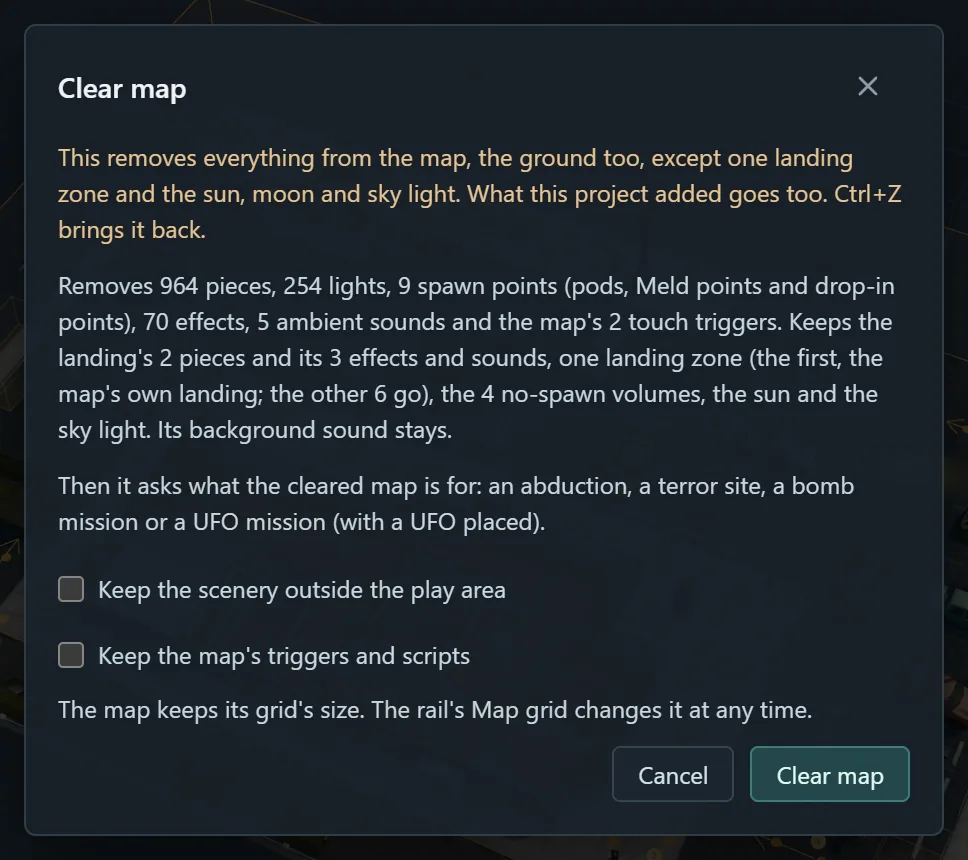
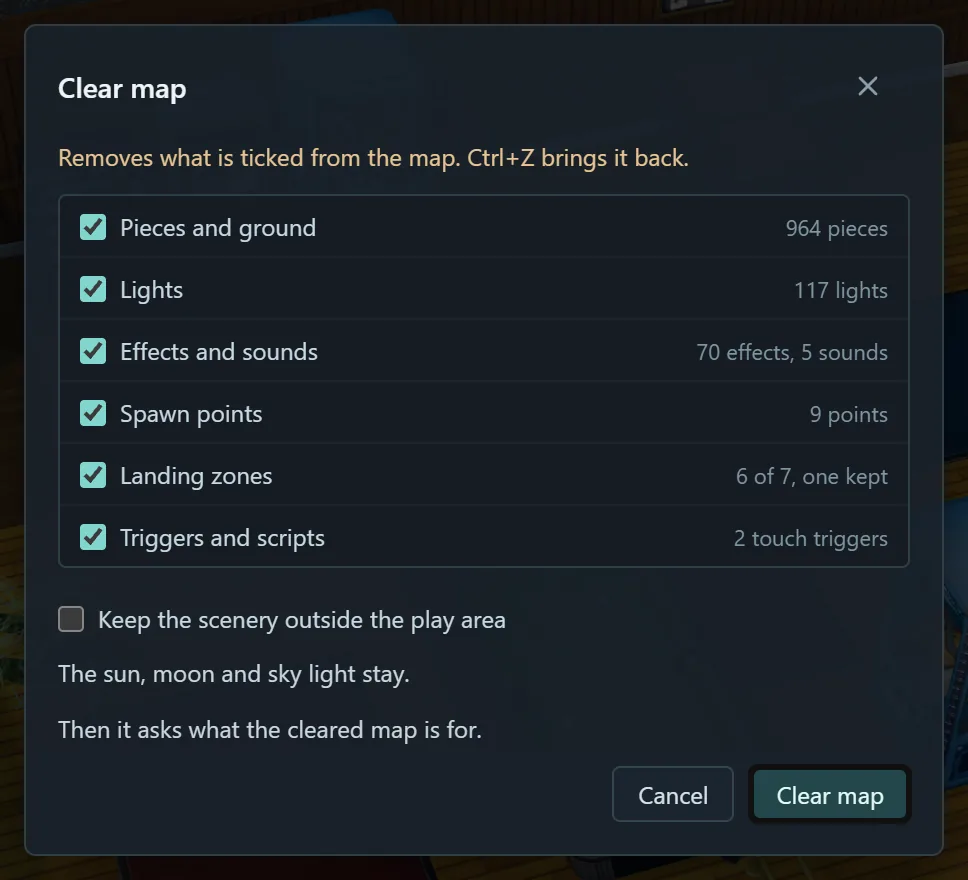
The guide's Clear map section describes the clear by parts: each part's tick, what it takes and what stays, a part already cleared, the notes, the outside kept per part, what follows the pieces; its picture taken again

diff --git a/tools/release/guide/guide.html b/tools/release/guide/guide.html
@@ -507,7 +507,8 @@ footer { margin-top: 70px; padding-top: 18px; border-top: 1px solid var(--line);
 <h3>Make a new map on an old map's light and landing</h3>
 <ol class="steps">
   <li>Open the map, click <b class="ui">Map</b> in the header and choose <b class="ui">Clear map…</b>.</li>
-  <li>Click <b class="ui">Clear map</b>. The ground grid shows the empty ground.</li>
+  <li>Every part is ticked: click <b class="ui">Clear map</b>. The ground grid shows the empty ground. (Untick a
+    part to keep it: the map's lights, say.)</li>
   <li>Turn on <b class="ui">Map grid</b> (the Map menu, or the tool strip's Views list) and drag the play area's
     handles to the size you want, in tiles and levels.</li>
   <li>Lay floors first (<kbd>P</kbd>, Kind: <b class="ui">Floors</b>, or the <a href="#made">Build menu</a>'s ground and
@@ -660,7 +661,7 @@ footer { margin-top: 70px; padding-top: 18px; border-top: 1px solid var(--line);
       <a href="#map-picture">More</a></li>
     <li data-n="5"><b>Map grid</b> shows the play area's handles, as the last row of the tool strip's Views list
       does. <a href="#mapgrid">More</a></li>
-    <li data-n="6"><b>Clear map…</b> takes every piece off the map. <a href="#clearmap">More</a></li>
+    <li data-n="6"><b>Clear map…</b> takes parts of the map off it, or all of them. <a href="#clearmap">More</a></li>
   </ol>
 </div>
 <p>Items 2 to 6 are the map's own. In the prefab builder, where there is only the map to change, the button opens the
@@ -2196,52 +2197,65 @@ footer { margin-top: 70px; padding-top: 18px; border-top: 1px solid var(--line);
 </ul>
 
 <h3 id="clearmap">Clear map and landing zones</h3>
-<p><b class="ui">Clear map…</b> in the <a href="#map-menu">Map menu</a> takes every piece off the map, the ground too, so that you can
-  build a new map with pieces and prefabs on an old map's light and landing. It is meant for an unchanged map, but it
-  works on any.</p>
-<figure><img src="shots/clear-map.webp" width="484" height="430" alt="The Clear map window on the Bar, with its counts and the ticks to keep the scenery outside the play area and the map's triggers"></figure>
+<p><b class="ui">Clear map…</b> in the <a href="#map-menu">Map menu</a> takes parts of the map off it, or all of them:
+  its pieces and the ground, its lights, its effects and sounds, its spawn points, its landing zones and its triggers.
+  Cleared whole, the map is the start of a new one built with pieces and prefabs on an old map's light and landing.
+  Cleared in part, it keeps what you want of the old map: its lights and sounds round pieces of your own, or its pieces
+  without its narration. It works on any map, at any point, a changed one too.</p>
+<figure><img src="shots/clear-map.webp" width="484" height="440" alt="The Clear map window on the Bar: a tick for each part with its count, and the tick to keep the scenery outside the play area"></figure>
 <ul>
-  <li><b>A window comes first.</b> It warns what will go and gives a short count of it for this map: the pieces,
-    the lights, the spawn points, the effects and the ambient sounds. What stays:
+  <li><b>A tick for each part</b>, with a short count of what it takes on this map. On a map with nothing cleared
+    every part is ticked: that is the whole clear. Untick what you want to keep; the button says what it does
+    (<b class="ui">Clear map</b>, <b class="ui">Clear 2 parts</b>). Each row's tooltip says what it takes.
     <ul>
-      <li>the landing's own pieces (the drop zone's frame and the grounded Skyranger), with the Skyranger's lights,
-        dust and sound;</li>
-      <li>one landing zone: the map's own first landing, used by Long War and plain EW alike (copy it for more);</li>
-      <li>the sun or moon and the sky light.</li>
-    </ul>
-    The clear keeps the grid's size. Change it with <a href="#mapgrid">Map grid</a>, before or after.</li>
-  <li><b class="ui">Keep the scenery outside the play area</b> leaves the pieces that stand wholly outside it: the
-    buildings, trees and fences the map is seen against. The lights, smoke, stains and sounds placed out there stay
-    too. Here
-    the play area is the map's own, and the new grid where it reaches further, so pieces the new grid brings into play
-    still go. So does a piece across the edge. The window's count follows the tick, which is remembered.</li>
-  <li><b class="ui">Keep the map's triggers and scripts</b> leaves the map's triggers, which the editor doesn't show:
-    the touch volumes that set animals going or play a narration (a crashed UFO's "entering the ship"), the water
-    volumes that make units wade, and the spots that speak when a soldier sees them. Without it the Build takes them
-    out and switches off what they would start, so nothing of the old map acts on the new one. On a map without any
-    the tick is not shown. A mission's own streamed objects keep theirs. The tick is remembered.
-    The map's background sound stays either way: change it in <a href="#map-settings">Map settings</a>.</li>
-  <li><b>Effects and ambient sounds go with the clear</b>, except the Skyranger's, which stay with it, and the ones
-    outside that the tick keeps. One you moved yourself in the <a href="#effects">Effects view</a> stays, and so do
-    your copies.</li>
-  <li><b>The clear is one undo step.</b> <kbd>Ctrl</kbd>+<kbd>Z</kbd> brings everything back, the size too. What
-    your project had added goes as well, with its groups and buildings.</li>
-  <li><b>After a clear, <a href="#mapgrid">Map grid</a></b> can also make the grid smaller and lower.</li>
-  <li><b>The Build takes out what the editor never showed</b> on a cleared map: the missions' streamed pieces and the
-    map's own floor storeys. It gives the new grid storeys of its own.</li>
-  <li><b>Long War's patch levels go with the clear.</b> Long War streams a patch level or two into most maps: pieces,
-    lights and a script that fixes up the old map as it loads. A cleared map's build streams none of them, so nothing
-    of them acts on yours, and the editor stops showing their pieces, lights and spawn points. The no-spawn volumes and
-    Meld points some of them carry go too. A mission's own streamed objects stay.</li>
-  <li><b>The map's pods, Meld points and drop-in points go with the clear</b>, but one the map's script names: it
-    stays where the map has it. The no-spawn volumes stay; they sit where the map had cars and
-    props, so move or delete them in the <a href="#spawns">Spawns view</a>. Long War Rebalance puts its own pods and
-    Meld on your floors when the battle starts. Plain Enemy Within needs pods of yours: place them with the Add
-    panel's <b class="ui">Spawn points</b> (the window says so on a plain install), and the Build warns when there are
-    fewer places for pods than the map had.</li>
-  <li><b>Then it asks "What is this map for?"</b>: the <a href="#missions">Missions</a> window, with the header's
-    mission ticked if it is an abduction, a terror site or a bomb, else an abduction. A base mission with objects of
-    its own (a bomb, a data recovery) keeps them where the original map has them until you move them.</li>
+      <li><b class="ui">Pieces and ground</b>: every piece, the ground too, and the map's buildings and yours, with
+        what the Build takes with them (building and floor volumes, blocking volumes, cover, stains, a glowing piece's
+        own light). The landing's own pieces stay: the drop zone's frame and the grounded Skyranger, with its lights,
+        dust and sound.</li>
+      <li><b class="ui">Lights</b>: the map's point and spot lights, and yours. The sun or moon and the sky light stay,
+        and a glowing piece keeps its own light while the piece stays. Pieces that stay keep the light baked into them
+        until a Build with the bake.</li>
+      <li><b class="ui">Effects and sounds</b>: smoke, fire, steam, animals, glints and ambient sounds, the map's and
+        yours. The Skyranger's stay with it, and so does one you moved yourself in the
+        <a href="#effects">Effects view</a>. The map's background sound stays: change it in
+        <a href="#map-settings">Map settings</a>.</li>
+      <li><b class="ui">Spawn points</b>: the map's pods, Meld points and drop-in points, and your copies of them, but
+        one the map's script names: it stays where the map has it. The no-spawn volumes stay; they sit where the map
+        had cars and props, so move or delete them in the <a href="#spawns">Spawns view</a>. Long War Rebalance puts its
+        own pods and Meld on your floors when the battle starts. Plain Enemy Within needs pods of yours: place them with
+        the Add panel's <b class="ui">Spawn points</b> (the window says so on a plain install), and the Build warns when
+        there are fewer places for pods than the map had.</li>
+      <li><b class="ui">Landing zones</b>: all but one, the map's own first landing, used by Long War and plain EW
+        alike (copy it for more).</li>
+      <li><b class="ui">Triggers and scripts</b>: the map's triggers, which the editor doesn't show: the touch volumes
+        that set animals going or play a narration (a crashed UFO's "entering the ship"), the water volumes that make
+        units wade, and the spots that speak when a soldier sees them (a UFO's power core, an alien base's rooms). The
+        Build takes them out and switches off what they would start. The landing's intro script and the background
+        sound stay, and so does what a few special maps' scripts do at a moment of the battle (an alien base's closing
+        narration). A mission's own streamed objects keep theirs.</li>
+    </ul></li>
+  <li><b>A part already cleared</b> says so (<b class="ui">Cleared</b>) and counts only what stands since: clear it
+    again to take that too. A part with nothing to take says none. The window then opens with the parts not yet
+    cleared ticked.</li>
+  <li><b>Notes under the ticks</b> say what a clear in part leaves that may surprise: the landing zones, the lights or
+    the smoke and sounds of a map whose pieces go, or the pods a plain EW map keeps where the floor was.</li>
+  <li><b class="ui">Keep the scenery outside the play area</b> leaves, of each part the clear takes, what stands
+    wholly outside it: the buildings, trees and fences the map is seen against, and the lights, smoke, stains, sounds
+    and triggers placed out there. Here the play area is the map's own, and the new grid where it reaches further, so
+    pieces the new grid brings into play still go. So does a piece across the edge. The counts follow the tick, which
+    is remembered.</li>
+  <li><b>The clear is one undo step.</b> <kbd>Ctrl</kbd>+<kbd>Z</kbd> brings back everything it took, the size too.
+    What your project had added of a part goes with it: pieces with their groups and buildings, lights, effects.</li>
+  <li><b>With the pieces cleared</b>, <a href="#mapgrid">Map grid</a> can also make the grid smaller and lower (the
+    clear keeps the grid's size; change it before or after), and the Build takes out the map's own floor storeys and
+    gives the new grid storeys of its own.</li>
+  <li><b>Long War's patch levels go with the pieces.</b> Long War streams a patch level or two into most maps: pieces,
+    lights and a script that fixes up the old map as it loads. A build whose pieces are cleared streams none of them,
+    so nothing of them acts on yours, and the editor stops showing their pieces, lights and spawn points. The no-spawn
+    volumes and Meld points some of them carry go too. A mission's own streamed objects stay.</li>
+  <li><b>Then it asks "What is this map for?"</b> when the pieces go: the <a href="#missions">Missions</a> window, with
+    the header's mission ticked if it is an abduction, a terror site or a bomb, else an abduction. A base mission with
+    objects of its own (a bomb, a data recovery) keeps them where the original map has them until you move them.</li>
 </ul>
 <h4>The ground grid</h4>
 <p>A faint grid on the ground's plane (the height the landing zones stand at), drawn only where there is no floor.

diff --git a/tools/release/guide/take_shots.py b/tools/release/guide/take_shots.py
@@ -1183,12 +1183,12 @@ class Shots:
         page.keyboard.press('Escape')
 
     def clear_map(self):
-        """The Clear map window on the Bar, with its counts. Cancelled: nothing is cleared."""
+        """The Clear map window on the Bar: its parts ticked with their counts. Cancelled: nothing is cleared."""
         page = self.page
         page.evaluate('viewer.select(null)')
         page.evaluate("document.getElementById('projectClear').click()")
         page.wait_for_selector('#clearMap:not([hidden])')
-        page.wait_for_function("document.getElementById('clearMapPlan').textContent.trim() !== ''")
+        page.wait_for_function("document.querySelector('#clearMapParts .tickval').textContent.trim() !== ''")
         page.wait_for_timeout(400)
         self.shot('clear-map', clip=self.around('#clearMapForm', pad=(12, 12, 12, 12)))
         page.locator('#clearMapCancel').click()

diff --git a/changelog/entries/2026-11-24-guide-clear-by-parts.md b/changelog/entries/2026-11-24-guide-clear-by-parts.md
@@ -1,0 +1,13 @@
+### The guide says Clear map takes parts
+
+The user guide's Clear map section ([guide.html](../../tools/release/guide/guide.html) `#clearmap`) describes the window
+by parts: a tick for each part with what it takes and what stays (the pieces and ground, the lights, the effects and
+sounds, the spawn points, the landing zones, the triggers and scripts), a part already cleared, the notes, the scenery
+outside the play area kept per part, and what follows the pieces alone (a smaller grid, the Build's own floor
+storeys, Long War's patch levels, the question what the map is for). The task "Make a new map on an old map's light
+and landing" and the Map menu's list say it too. Its picture is taken again
+([take_shots.py](../../tools/release/guide/take_shots.py) `clear_map` waits for the parts' counts): the window on the
+Bar with every part ticked.
+
+Checked: the picture looked at (six rows with their counts, the outside tick, the notes, the button); the guide's
+tests and the repository's.
